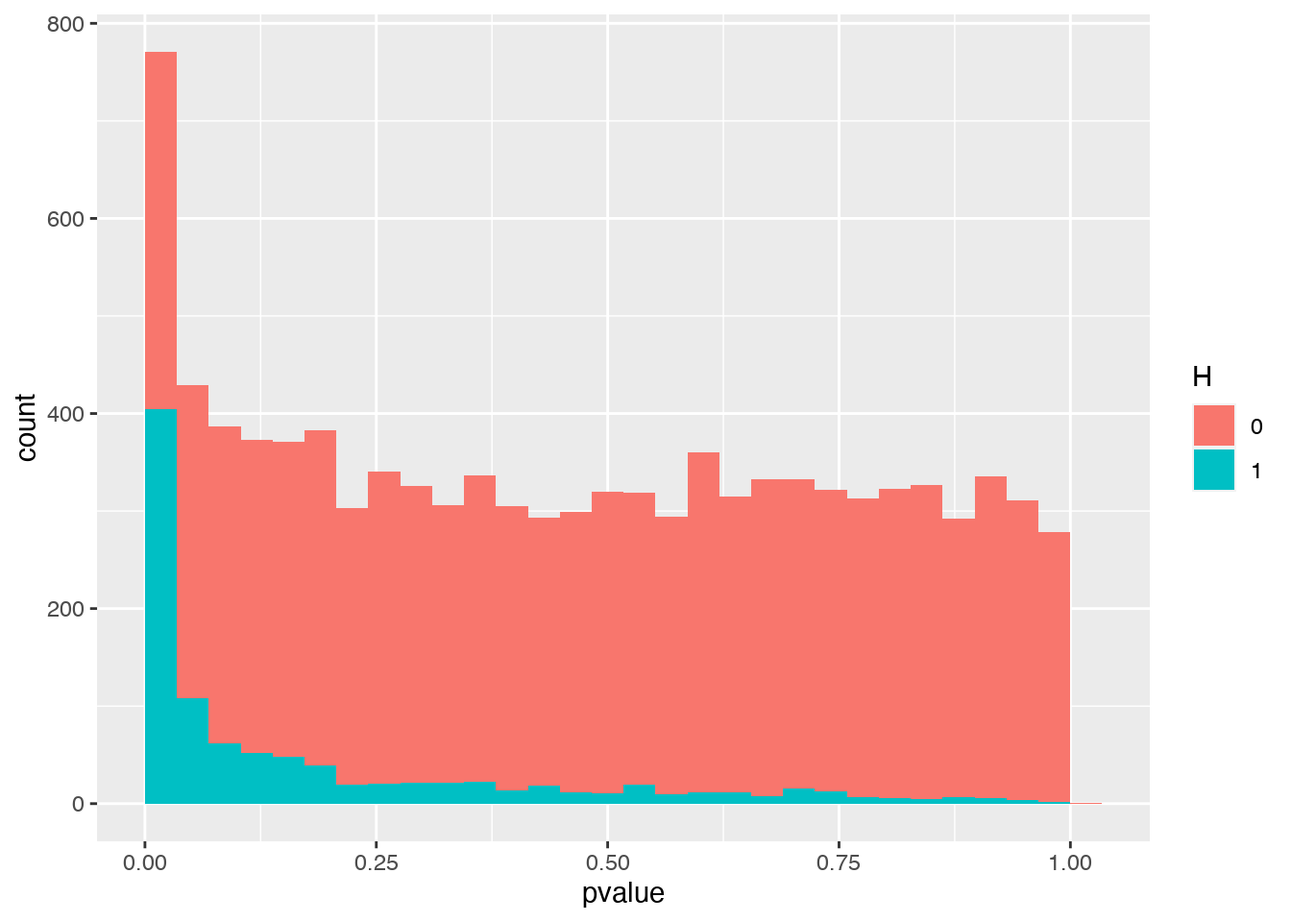
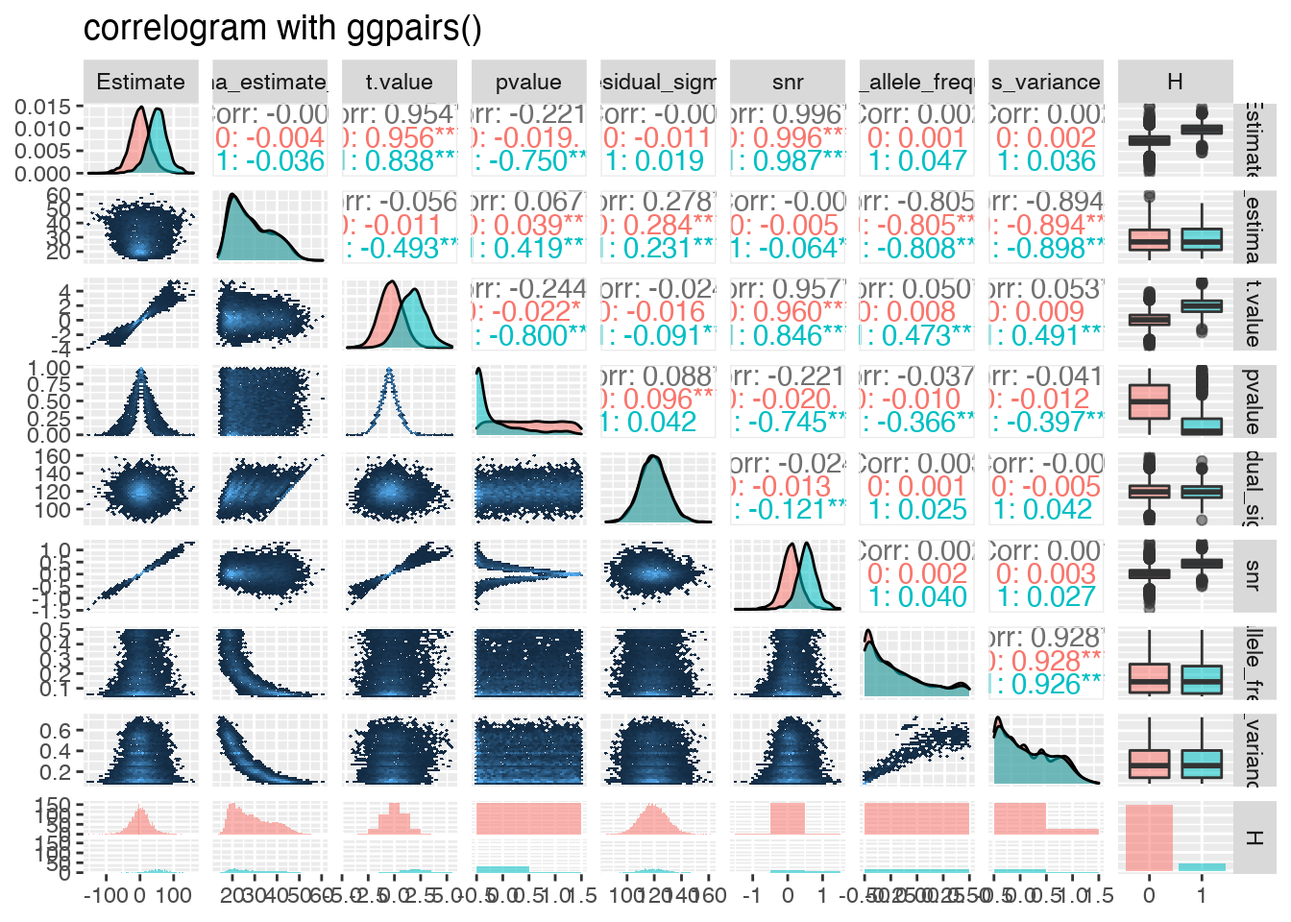
build markdown

diff --git a/hqtl_analysis/maf_simulation.html b/hqtl_analysis/maf_simulation.html
@@ -283,12 +283,12 @@ H_0: (H\beta) =0 \quad \text { against } \quad H_1: (H\beta) \neq 0.
 <span id="cb16-4"><a href="#cb16-4" aria-hidden="true" tabindex="-1"></a><span class="fu">head</span>(data_sim[[<span class="dv">1</span>]])</span></code><button title="Copy to Clipboard" class="code-copy-button"><i class="bi"></i></button></pre></div>
 <div class="cell-output cell-output-stdout">
 <pre><code>  alpha betha sigma nsample_i s      noise histone_modification
-1    50    50   120         1 0   62.98231           112.982315
-2    50    50   120         2 0  145.74102           195.741017
-3    50    50   120         3 0  -41.72961             8.270391
-4    50    50   120         4 1 -222.17585          -172.175850
-5    50    50   120         5 0  -66.44637           -16.446372
-6    50    50   120         6 2 -168.18700          -118.186995</code></pre>
+1    50    50   120         1 0   73.46468           123.464676
+2    50    50   120         2 1  -57.94317            -7.943167
+3    50    50   120         3 0  -44.96355             5.036448
+4    50    50   120         4 0  -17.99695            32.003046
+5    50    50   120         5 0  -39.83976            10.160241
+6    50    50   120         6 0 -101.43186           -51.431864</code></pre>
 </div>
 </div>
 </section>
@@ -317,40 +317,41 @@ t_{\text {score }}=\frac{\widehat{\beta}}{S E_{\widehat{\beta}}},
 \]</span></p>
 <p>where <span class="math inline">\(\widehat{\beta}\)</span> is the least square estimator for <span class="math inline">\(H\beta\)</span> and <span class="math inline">\(S E_{\widehat{\beta}}\)</span> is the associated standard error. We are following the notation from B7.13 in <span class="citation" data-cites="czado2011">(<a href="#ref-czado2011" role="doc-biblioref">Czado and Schmidt 2011</a>)</span>. Under the null and assuming <span class="math inline">\(\epsilon_{1},\ldots , \epsilon_{n} \sim \text { i.i.d. } \mathcal{N}\left(0, \sigma^2\right)\)</span> we have <span class="math inline">\(t_{\text {score }} \sim \mathcal{T}_{n-2}\)</span>.</p>
 <div class="cell">
-<div class="sourceCode cell-code" id="cb20"><pre class="sourceCode r code-with-copy"><code class="sourceCode r"><span id="cb20-1"><a href="#cb20-1" aria-hidden="true" tabindex="-1"></a>sim_res <span class="ot">&lt;-</span> <span class="fu">lapply</span>(data_sim, <span class="cf">function</span>(data_sim_i){</span>
+<div class="sourceCode cell-code" id="cb20"><pre class="sourceCode r code-with-copy"><code class="sourceCode r"><span id="cb20-1"><a href="#cb20-1" aria-hidden="true" tabindex="-1"></a>sim_res <span class="ot">&lt;-</span> purrr<span class="sc">::</span><span class="fu">map_dfr</span>(data_sim, <span class="cf">function</span>(data_sim_i){</span>
 <span id="cb20-2"><a href="#cb20-2" aria-hidden="true" tabindex="-1"></a>  t_test_lm <span class="ot">=</span> <span class="fu">lm</span>(histone_modification <span class="sc">~</span> <span class="dv">1</span> <span class="sc">+</span> s, <span class="at">data=</span>data_sim_i)</span>
 <span id="cb20-3"><a href="#cb20-3" aria-hidden="true" tabindex="-1"></a>  s_line_t_test_lm <span class="ot">=</span> <span class="fu">summary</span>(t_test_lm)<span class="sc">$</span>coefficients[<span class="dv">2</span>,]</span>
 <span id="cb20-4"><a href="#cb20-4" aria-hidden="true" tabindex="-1"></a>  </span>
 <span id="cb20-5"><a href="#cb20-5" aria-hidden="true" tabindex="-1"></a>  s_line_t_test_lm <span class="ot">=</span> <span class="fu">data.frame</span>(<span class="fu">as.list</span>(s_line_t_test_lm))</span>
-<span id="cb20-6"><a href="#cb20-6" aria-hidden="true" tabindex="-1"></a>  </span>
-<span id="cb20-7"><a href="#cb20-7" aria-hidden="true" tabindex="-1"></a>  <span class="co">#calculate minor_allele_frequency</span></span>
-<span id="cb20-8"><a href="#cb20-8" aria-hidden="true" tabindex="-1"></a>  s_line_t_test_lm<span class="sc">$</span>minor_allele_frequency <span class="ot">=</span> <span class="fl">0.5</span><span class="sc">*</span> <span class="fu">min</span>(<span class="fu">mean</span>(data_sim_i<span class="sc">$</span>s), <span class="dv">2</span><span class="sc">-</span> <span class="fu">mean</span>(data_sim_i<span class="sc">$</span>s))</span>
-<span id="cb20-9"><a href="#cb20-9" aria-hidden="true" tabindex="-1"></a>  </span>
-<span id="cb20-10"><a href="#cb20-10" aria-hidden="true" tabindex="-1"></a>  s_line_t_test_lm<span class="sc">$</span>s_variance <span class="ot">&lt;-</span> <span class="fu">var</span>(data_sim_i<span class="sc">$</span>s)</span>
-<span id="cb20-11"><a href="#cb20-11" aria-hidden="true" tabindex="-1"></a>  </span>
-<span id="cb20-12"><a href="#cb20-12" aria-hidden="true" tabindex="-1"></a>  s_line_t_test_lm</span>
-<span id="cb20-13"><a href="#cb20-13" aria-hidden="true" tabindex="-1"></a>})</span>
-<span id="cb20-14"><a href="#cb20-14" aria-hidden="true" tabindex="-1"></a></span>
-<span id="cb20-15"><a href="#cb20-15" aria-hidden="true" tabindex="-1"></a>sim_res <span class="ot">&lt;-</span> <span class="fu">bind_rows</span>(sim_res)</span>
-<span id="cb20-16"><a href="#cb20-16" aria-hidden="true" tabindex="-1"></a><span class="co">#sim_res &lt;- sim_res %&gt;% rename(pvalue = `Pr...t..`)</span></span>
-<span id="cb20-17"><a href="#cb20-17" aria-hidden="true" tabindex="-1"></a><span class="fu">colnames</span>(sim_res)[<span class="dv">4</span>] <span class="ot">&lt;-</span> <span class="st">"pvalue"</span></span>
-<span id="cb20-18"><a href="#cb20-18" aria-hidden="true" tabindex="-1"></a>sim_res<span class="sc">$</span>H <span class="ot">&lt;-</span> <span class="fu">as.factor</span>(H)</span>
-<span id="cb20-19"><a href="#cb20-19" aria-hidden="true" tabindex="-1"></a><span class="fu">head</span>(sim_res)</span></code><button title="Copy to Clipboard" class="code-copy-button"><i class="bi"></i></button></pre></div>
+<span id="cb20-6"><a href="#cb20-6" aria-hidden="true" tabindex="-1"></a>  s_line_t_test_lm <span class="ot">&lt;-</span> s_line_t_test_lm <span class="sc">%&gt;%</span></span>
+<span id="cb20-7"><a href="#cb20-7" aria-hidden="true" tabindex="-1"></a>    <span class="fu">mutate</span>(<span class="at">residual_sigma =</span> <span class="fu">summary</span>(t_test_lm)<span class="sc">$</span>sigma,</span>
+<span id="cb20-8"><a href="#cb20-8" aria-hidden="true" tabindex="-1"></a>           <span class="at">snr =</span> Estimate<span class="sc">/</span>residual_sigma,</span>
+<span id="cb20-9"><a href="#cb20-9" aria-hidden="true" tabindex="-1"></a>           <span class="co">#calculate minor_allele_frequency</span></span>
+<span id="cb20-10"><a href="#cb20-10" aria-hidden="true" tabindex="-1"></a>           <span class="at">minor_allele_frequency =</span> <span class="fl">0.5</span><span class="sc">*</span> <span class="fu">min</span>(<span class="fu">mean</span>(data_sim_i<span class="sc">$</span>s), <span class="dv">2</span><span class="sc">-</span> <span class="fu">mean</span>(data_sim_i<span class="sc">$</span>s)), </span>
+<span id="cb20-11"><a href="#cb20-11" aria-hidden="true" tabindex="-1"></a>           <span class="at">s_variance =</span> <span class="fu">var</span>(data_sim_i<span class="sc">$</span>s))</span>
+<span id="cb20-12"><a href="#cb20-12" aria-hidden="true" tabindex="-1"></a>  </span>
+<span id="cb20-13"><a href="#cb20-13" aria-hidden="true" tabindex="-1"></a>  s_line_t_test_lm</span>
+<span id="cb20-14"><a href="#cb20-14" aria-hidden="true" tabindex="-1"></a>})</span>
+<span id="cb20-15"><a href="#cb20-15" aria-hidden="true" tabindex="-1"></a></span>
+<span id="cb20-16"><a href="#cb20-16" aria-hidden="true" tabindex="-1"></a>sim_res <span class="ot">&lt;-</span> sim_res <span class="sc">%&gt;%</span> <span class="fu">rename</span>(<span class="at">pvalue =</span> <span class="st">`</span><span class="at">Pr...t..</span><span class="st">`</span>)</span>
+<span id="cb20-17"><a href="#cb20-17" aria-hidden="true" tabindex="-1"></a>sim_res <span class="ot">&lt;-</span> sim_res <span class="sc">%&gt;%</span> <span class="fu">rename</span>(<span class="at">betha_estimate_std =</span> <span class="st">`</span><span class="at">Std..Error</span><span class="st">`</span>)</span>
+<span id="cb20-18"><a href="#cb20-18" aria-hidden="true" tabindex="-1"></a></span>
+<span id="cb20-19"><a href="#cb20-19" aria-hidden="true" tabindex="-1"></a>sim_res<span class="sc">$</span>H <span class="ot">&lt;-</span> <span class="fu">as.factor</span>(H)</span>
+<span id="cb20-20"><a href="#cb20-20" aria-hidden="true" tabindex="-1"></a><span class="fu">head</span>(sim_res)</span></code><button title="Copy to Clipboard" class="code-copy-button"><i class="bi"></i></button></pre></div>
 <div class="cell-output cell-output-stdout">
-<pre><code>    Estimate Std..Error    t.value       pvalue minor_allele_frequency
-1   7.732898   21.18206  0.3650682 7.161018e-01             0.29605263
-2  19.180249   32.66823  0.5871223 5.589087e-01             0.07236842
-3 103.557885   24.82211  4.1720017 8.127165e-05             0.19078947
-4  57.402734   29.91119  1.9191057 5.882722e-02             0.07894737
-5   3.243699   19.48881  0.1664391 8.682654e-01             0.25657895
-6  -2.852079   19.38560 -0.1471236 8.834346e-01             0.48026316
-  s_variance H
-1  0.4847368 0
-2  0.2054386 0
-3  0.2924561 1
-4  0.1614035 0
-5  0.3864912 0
-6  0.5450877 0</code></pre>
+<pre><code>    Estimate betha_estimate_std     t.value    pvalue residual_sigma
+1 -31.213736           35.53098 -0.87849359 0.3825195       107.5239
+2  17.370345           43.54139  0.39893870 0.6910873       116.4917
+3 -15.852293           41.99570 -0.37747420 0.7069017       118.2924
+4  23.875922           24.01057  0.99439203 0.3232726       133.4296
+5  23.553564           31.94359  0.73734880 0.4632419       122.4078
+6  -2.201609           39.95219 -0.05510609 0.9562025       135.0186
+          snr minor_allele_frequency s_variance H
+1 -0.29029581             0.05263158  0.1221053 0
+2  0.14911232             0.05263158  0.0954386 0
+3 -0.13400945             0.05921053  0.1057895 0
+4  0.17894019             0.23026316  0.4117544 0
+5  0.19241888             0.06578947  0.1957895 0
+6 -0.01630597             0.09210526  0.1522807 0</code></pre>
 </div>
 </div>
 </section>
@@ -361,52 +362,137 @@ t_{\text {score }}=\frac{\widehat{\beta}}{S E_{\widehat{\beta}}},
 <section id="diagnostic-plots" class="level2">
 <h2 class="anchored" data-anchor-id="diagnostic-plots">Diagnostic plots</h2>
 <div class="cell">
-<div class="sourceCode cell-code" id="cb22"><pre class="sourceCode r code-with-copy"><code class="sourceCode r"><span id="cb22-1"><a href="#cb22-1" aria-hidden="true" tabindex="-1"></a><span class="fu">ggpairs</span>(sim_res, </span>
-<span id="cb22-2"><a href="#cb22-2" aria-hidden="true" tabindex="-1"></a>        <span class="at">mapping=</span>ggplot2<span class="sc">::</span><span class="fu">aes</span>(<span class="at">colour =</span> H, <span class="at">alpha =</span> <span class="fl">0.3</span>),</span>
-<span id="cb22-3"><a href="#cb22-3" aria-hidden="true" tabindex="-1"></a>        <span class="at">columns=</span> <span class="fu">c</span>(<span class="dv">5</span>,<span class="dv">6</span>,<span class="dv">2</span>,<span class="dv">3</span>,<span class="dv">4</span>), </span>
-<span id="cb22-4"><a href="#cb22-4" aria-hidden="true" tabindex="-1"></a>        <span class="at">title=</span><span class="st">"correlogram with ggpairs()"</span>,</span>
-<span id="cb22-5"><a href="#cb22-5" aria-hidden="true" tabindex="-1"></a>        <span class="at">lower=</span><span class="fu">list</span>(<span class="at">combo=</span><span class="fu">wrap</span>(<span class="st">"facethist"</span>, <span class="at">binwidth=</span><span class="dv">1</span>))</span>
-<span id="cb22-6"><a href="#cb22-6" aria-hidden="true" tabindex="-1"></a>      ) </span></code><button title="Copy to Clipboard" class="code-copy-button"><i class="bi"></i></button></pre></div>
+<div class="sourceCode cell-code" id="cb22"><pre class="sourceCode r code-with-copy"><code class="sourceCode r"><span id="cb22-1"><a href="#cb22-1" aria-hidden="true" tabindex="-1"></a><span class="fu">colnames</span>(sim_res)</span></code><button title="Copy to Clipboard" class="code-copy-button"><i class="bi"></i></button></pre></div>
+<div class="cell-output cell-output-stdout">
+<pre><code>[1] "Estimate"               "betha_estimate_std"     "t.value"               
+[4] "pvalue"                 "residual_sigma"         "snr"                   
+[7] "minor_allele_frequency" "s_variance"             "H"                     </code></pre>
 </div>
-</section>
-<section id="pvalue-histograms" class="level2">
-<h2 class="anchored" data-anchor-id="pvalue-histograms">Pvalue histograms</h2>
-<div class="cell">
-<div class="sourceCode cell-code" id="cb23"><pre class="sourceCode r code-with-copy"><code class="sourceCode r"><span id="cb23-1"><a href="#cb23-1" aria-hidden="true" tabindex="-1"></a>groups_by_filter <span class="ot">&lt;-</span> <span class="cf">function</span>(covariate, nbins, <span class="at">ties.method=</span><span class="st">"random"</span>, <span class="at">seed=</span><span class="cn">NULL</span>){</span>
-<span id="cb23-2"><a href="#cb23-2" aria-hidden="true" tabindex="-1"></a>  <span class="cf">if</span> (<span class="sc">!</span><span class="fu">is.null</span>(seed) <span class="sc">&amp;&amp;</span> ties.method<span class="sc">==</span><span class="st">"random"</span>){</span>
-<span id="cb23-3"><a href="#cb23-3" aria-hidden="true" tabindex="-1"></a>    <span class="co">#http://stackoverflow.com/questions/14324096/setting-seed-locally-not-globally-in-r?rq=1</span></span>
-<span id="cb23-4"><a href="#cb23-4" aria-hidden="true" tabindex="-1"></a>    tmp <span class="ot">&lt;-</span> <span class="fu">runif</span>(<span class="dv">1</span>)</span>
-<span id="cb23-5"><a href="#cb23-5" aria-hidden="true" tabindex="-1"></a>    old <span class="ot">&lt;-</span> .Random.seed</span>
-<span id="cb23-6"><a href="#cb23-6" aria-hidden="true" tabindex="-1"></a>    <span class="fu">on.exit</span>( { .Random.seed <span class="ot">&lt;&lt;-</span> old } )</span>
-<span id="cb23-7"><a href="#cb23-7" aria-hidden="true" tabindex="-1"></a>    <span class="fu">set.seed</span>(<span class="fu">as.integer</span>(seed)) </span>
-<span id="cb23-8"><a href="#cb23-8" aria-hidden="true" tabindex="-1"></a>  }</span>
-<span id="cb23-9"><a href="#cb23-9" aria-hidden="true" tabindex="-1"></a>    rfs <span class="ot">&lt;-</span> <span class="fu">rank</span>(covariate, <span class="at">ties.method=</span>ties.method)<span class="sc">/</span><span class="fu">length</span>(covariate)</span>
-<span id="cb23-10"><a href="#cb23-10" aria-hidden="true" tabindex="-1"></a>    <span class="fu">as.factor</span>(<span class="fu">ceiling</span>( rfs<span class="sc">*</span> nbins))</span>
-<span id="cb23-11"><a href="#cb23-11" aria-hidden="true" tabindex="-1"></a>}</span></code><button title="Copy to Clipboard" class="code-copy-button"><i class="bi"></i></button></pre></div>
 </div>
 <div class="cell">
-<div class="sourceCode cell-code" id="cb24"><pre class="sourceCode r code-with-copy"><code class="sourceCode r"><span id="cb24-1"><a href="#cb24-1" aria-hidden="true" tabindex="-1"></a><span class="fu">ggplot</span>(sim_res, </span>
-<span id="cb24-2"><a href="#cb24-2" aria-hidden="true" tabindex="-1"></a>       <span class="fu">aes</span>(<span class="at">x =</span> pvalue,</span>
-<span id="cb24-3"><a href="#cb24-3" aria-hidden="true" tabindex="-1"></a>           <span class="at">fill =</span> H)) <span class="sc">+</span></span>
-<span id="cb24-4"><a href="#cb24-4" aria-hidden="true" tabindex="-1"></a>  <span class="fu">geom_histogram</span>(<span class="at">boundary =</span> <span class="dv">0</span>) </span></code><button title="Copy to Clipboard" class="code-copy-button"><i class="bi"></i></button></pre></div>
-<div class="cell-output cell-output-stderr">
-<pre><code>`stat_bin()` using `bins = 30`. Pick better value with `binwidth`.</code></pre>
+<div class="sourceCode cell-code" id="cb24"><pre class="sourceCode r code-with-copy"><code class="sourceCode r"><span id="cb24-1"><a href="#cb24-1" aria-hidden="true" tabindex="-1"></a>GGscatterhex <span class="ot">&lt;-</span> <span class="cf">function</span>(data, mapping,...) {</span>
+<span id="cb24-2"><a href="#cb24-2" aria-hidden="true" tabindex="-1"></a>  x <span class="ot">&lt;-</span> GGally<span class="sc">::</span><span class="fu">eval_data_col</span>(data, mapping<span class="sc">$</span>x)</span>
+<span id="cb24-3"><a href="#cb24-3" aria-hidden="true" tabindex="-1"></a>  y <span class="ot">&lt;-</span> GGally<span class="sc">::</span><span class="fu">eval_data_col</span>(data, mapping<span class="sc">$</span>y)</span>
+<span id="cb24-4"><a href="#cb24-4" aria-hidden="true" tabindex="-1"></a>  df <span class="ot">&lt;-</span> <span class="fu">data.frame</span>(<span class="at">x =</span> x, <span class="at">y =</span> y)</span>
+<span id="cb24-5"><a href="#cb24-5" aria-hidden="true" tabindex="-1"></a>  pp <span class="ot">&lt;-</span> <span class="fu">ggplot</span>(df, <span class="fu">aes</span>(<span class="at">x=</span>x, <span class="at">y=</span>y)) <span class="sc">+</span></span>
+<span id="cb24-6"><a href="#cb24-6" aria-hidden="true" tabindex="-1"></a>        <span class="fu">geom_hex</span>()</span>
+<span id="cb24-7"><a href="#cb24-7" aria-hidden="true" tabindex="-1"></a>  <span class="fu">return</span>(pp)</span>
+<span id="cb24-8"><a href="#cb24-8" aria-hidden="true" tabindex="-1"></a>  }</span>
+<span id="cb24-9"><a href="#cb24-9" aria-hidden="true" tabindex="-1"></a><span class="co">#ggpairs(flea, columns = 2:3,</span></span>
+<span id="cb24-10"><a href="#cb24-10" aria-hidden="true" tabindex="-1"></a><span class="co">#        lower=list(continuous=wrap(GGscatterhex)))</span></span></code><button title="Copy to Clipboard" class="code-copy-button"><i class="bi"></i></button></pre></div>
 </div>
+<div class="cell">
+<div class="sourceCode cell-code" id="cb25"><pre class="sourceCode r code-with-copy"><code class="sourceCode r"><span id="cb25-1"><a href="#cb25-1" aria-hidden="true" tabindex="-1"></a><span class="fu">ggpairs</span>(sim_res, </span>
+<span id="cb25-2"><a href="#cb25-2" aria-hidden="true" tabindex="-1"></a>        <span class="at">mapping=</span>ggplot2<span class="sc">::</span><span class="fu">aes</span>(<span class="at">colour =</span> H, <span class="at">alpha =</span> <span class="fl">0.3</span>),</span>
+<span id="cb25-3"><a href="#cb25-3" aria-hidden="true" tabindex="-1"></a>        <span class="co">#columns= c(5,6,2,3,4), </span></span>
+<span id="cb25-4"><a href="#cb25-4" aria-hidden="true" tabindex="-1"></a>        <span class="at">title=</span><span class="st">"correlogram with ggpairs()"</span>,</span>
+<span id="cb25-5"><a href="#cb25-5" aria-hidden="true" tabindex="-1"></a>        <span class="at">lower=</span><span class="fu">list</span>(<span class="at">combo=</span><span class="fu">wrap</span>(<span class="st">"facethist"</span>, <span class="at">binwidth=</span><span class="dv">1</span>),</span>
+<span id="cb25-6"><a href="#cb25-6" aria-hidden="true" tabindex="-1"></a>                   <span class="at">continuous=</span><span class="fu">wrap</span>(GGscatterhex))</span>
+<span id="cb25-7"><a href="#cb25-7" aria-hidden="true" tabindex="-1"></a>      ) </span></code><button title="Copy to Clipboard" class="code-copy-button"><i class="bi"></i></button></pre></div>
 <div class="cell-output-display">
 <p><img src="maf_simulation_files/figure-html/unnamed-chunk-15-1.png" class="img-fluid" width="672"></p>
 </div>
 </div>
 <div class="cell">
-<div class="sourceCode cell-code" id="cb26"><pre class="sourceCode r code-with-copy"><code class="sourceCode r"><span id="cb26-1"><a href="#cb26-1" aria-hidden="true" tabindex="-1"></a><span class="fu">ggplot</span>(sim_res, </span>
-<span id="cb26-2"><a href="#cb26-2" aria-hidden="true" tabindex="-1"></a>       <span class="fu">aes</span>(<span class="at">x =</span> pvalue,</span>
-<span id="cb26-3"><a href="#cb26-3" aria-hidden="true" tabindex="-1"></a>           <span class="at">fill =</span> H)) <span class="sc">+</span></span>
-<span id="cb26-4"><a href="#cb26-4" aria-hidden="true" tabindex="-1"></a>  <span class="fu">geom_histogram</span>(<span class="at">boundary =</span> <span class="dv">0</span>) <span class="sc">+</span></span>
-<span id="cb26-5"><a href="#cb26-5" aria-hidden="true" tabindex="-1"></a>  <span class="fu">facet_wrap</span>(<span class="fu">groups_by_filter</span>(sim_res<span class="sc">$</span>minor_allele_frequency, <span class="dv">8</span>), <span class="at">nrow =</span> <span class="dv">2</span>)</span></code><button title="Copy to Clipboard" class="code-copy-button"><i class="bi"></i></button></pre></div>
+<div class="sourceCode cell-code" id="cb26"><pre class="sourceCode r code-with-copy"><code class="sourceCode r"><span id="cb26-1"><a href="#cb26-1" aria-hidden="true" tabindex="-1"></a><span class="fu">ggpairs</span>(sim_res, </span>
+<span id="cb26-2"><a href="#cb26-2" aria-hidden="true" tabindex="-1"></a>        <span class="at">mapping=</span>ggplot2<span class="sc">::</span><span class="fu">aes</span>(<span class="at">colour =</span> H, <span class="at">alpha =</span> <span class="fl">0.3</span>),</span>
+<span id="cb26-3"><a href="#cb26-3" aria-hidden="true" tabindex="-1"></a>        <span class="co">#columns= c(5,6,2,3,4), </span></span>
+<span id="cb26-4"><a href="#cb26-4" aria-hidden="true" tabindex="-1"></a>        <span class="at">title=</span><span class="st">"correlogram with ggpairs()"</span><span class="co">#,</span></span>
+<span id="cb26-5"><a href="#cb26-5" aria-hidden="true" tabindex="-1"></a>        <span class="co">#lower=list(combo=wrap("facethist", binwidth=1),</span></span>
+<span id="cb26-6"><a href="#cb26-6" aria-hidden="true" tabindex="-1"></a>        <span class="co">#           continuous=wrap(GGscatterhex))</span></span>
+<span id="cb26-7"><a href="#cb26-7" aria-hidden="true" tabindex="-1"></a>      ) </span></code><button title="Copy to Clipboard" class="code-copy-button"><i class="bi"></i></button></pre></div>
+<div class="cell-output cell-output-stderr">
+<pre><code>`stat_bin()` using `bins = 30`. Pick better value with `binwidth`.
+`stat_bin()` using `bins = 30`. Pick better value with `binwidth`.
+`stat_bin()` using `bins = 30`. Pick better value with `binwidth`.
+`stat_bin()` using `bins = 30`. Pick better value with `binwidth`.
+`stat_bin()` using `bins = 30`. Pick better value with `binwidth`.
+`stat_bin()` using `bins = 30`. Pick better value with `binwidth`.
+`stat_bin()` using `bins = 30`. Pick better value with `binwidth`.
+`stat_bin()` using `bins = 30`. Pick better value with `binwidth`.</code></pre>
+</div>
+<div class="cell-output-display">
+<p><img src="maf_simulation_files/figure-html/unnamed-chunk-16-1.png" class="img-fluid" width="672"></p>
+</div>
+</div>
+</section>
+<section id="pvalue-histograms" class="level2">
+<h2 class="anchored" data-anchor-id="pvalue-histograms">Pvalue histograms</h2>
+<div class="cell">
+<div class="sourceCode cell-code" id="cb28"><pre class="sourceCode r code-with-copy"><code class="sourceCode r"><span id="cb28-1"><a href="#cb28-1" aria-hidden="true" tabindex="-1"></a>groups_by_filter <span class="ot">&lt;-</span> <span class="cf">function</span>(covariate, nbins, <span class="at">ties.method=</span><span class="st">"random"</span>, <span class="at">seed=</span><span class="cn">NULL</span>){</span>
+<span id="cb28-2"><a href="#cb28-2" aria-hidden="true" tabindex="-1"></a>  <span class="cf">if</span> (<span class="sc">!</span><span class="fu">is.null</span>(seed) <span class="sc">&amp;&amp;</span> ties.method<span class="sc">==</span><span class="st">"random"</span>){</span>
+<span id="cb28-3"><a href="#cb28-3" aria-hidden="true" tabindex="-1"></a>    <span class="co">#http://stackoverflow.com/questions/14324096/setting-seed-locally-not-globally-in-r?rq=1</span></span>
+<span id="cb28-4"><a href="#cb28-4" aria-hidden="true" tabindex="-1"></a>    tmp <span class="ot">&lt;-</span> <span class="fu">runif</span>(<span class="dv">1</span>)</span>
+<span id="cb28-5"><a href="#cb28-5" aria-hidden="true" tabindex="-1"></a>    old <span class="ot">&lt;-</span> .Random.seed</span>
+<span id="cb28-6"><a href="#cb28-6" aria-hidden="true" tabindex="-1"></a>    <span class="fu">on.exit</span>( { .Random.seed <span class="ot">&lt;&lt;-</span> old } )</span>
+<span id="cb28-7"><a href="#cb28-7" aria-hidden="true" tabindex="-1"></a>    <span class="fu">set.seed</span>(<span class="fu">as.integer</span>(seed)) </span>
+<span id="cb28-8"><a href="#cb28-8" aria-hidden="true" tabindex="-1"></a>  }</span>
+<span id="cb28-9"><a href="#cb28-9" aria-hidden="true" tabindex="-1"></a>    rfs <span class="ot">&lt;-</span> <span class="fu">rank</span>(covariate, <span class="at">ties.method=</span>ties.method)<span class="sc">/</span><span class="fu">length</span>(covariate)</span>
+<span id="cb28-10"><a href="#cb28-10" aria-hidden="true" tabindex="-1"></a>    <span class="fu">as.factor</span>(<span class="fu">ceiling</span>( rfs<span class="sc">*</span> nbins))</span>
+<span id="cb28-11"><a href="#cb28-11" aria-hidden="true" tabindex="-1"></a>}</span></code><button title="Copy to Clipboard" class="code-copy-button"><i class="bi"></i></button></pre></div>
+</div>
+<div class="cell">
+<div class="sourceCode cell-code" id="cb29"><pre class="sourceCode r code-with-copy"><code class="sourceCode r"><span id="cb29-1"><a href="#cb29-1" aria-hidden="true" tabindex="-1"></a><span class="fu">ggplot</span>(sim_res, </span>
+<span id="cb29-2"><a href="#cb29-2" aria-hidden="true" tabindex="-1"></a>       <span class="fu">aes</span>(<span class="at">x =</span> pvalue,</span>
+<span id="cb29-3"><a href="#cb29-3" aria-hidden="true" tabindex="-1"></a>           <span class="at">fill =</span> H)) <span class="sc">+</span></span>
+<span id="cb29-4"><a href="#cb29-4" aria-hidden="true" tabindex="-1"></a>  <span class="fu">geom_histogram</span>(<span class="at">boundary =</span> <span class="dv">0</span>) </span></code><button title="Copy to Clipboard" class="code-copy-button"><i class="bi"></i></button></pre></div>
 <div class="cell-output cell-output-stderr">
 <pre><code>`stat_bin()` using `bins = 30`. Pick better value with `binwidth`.</code></pre>
 </div>
 <div class="cell-output-display">
-<p><img src="maf_simulation_files/figure-html/unnamed-chunk-16-1.png" class="img-fluid" width="672"></p>
+<p><img src="maf_simulation_files/figure-html/unnamed-chunk-18-1.png" class="img-fluid" width="672"></p>
+</div>
+</div>
+<div class="cell">
+<div class="sourceCode cell-code" id="cb31"><pre class="sourceCode r code-with-copy"><code class="sourceCode r"><span id="cb31-1"><a href="#cb31-1" aria-hidden="true" tabindex="-1"></a><span class="fu">ggplot</span>(sim_res, </span>
+<span id="cb31-2"><a href="#cb31-2" aria-hidden="true" tabindex="-1"></a>       <span class="fu">aes</span>(<span class="at">x =</span> pvalue,</span>
+<span id="cb31-3"><a href="#cb31-3" aria-hidden="true" tabindex="-1"></a>           <span class="at">fill =</span> H)) <span class="sc">+</span></span>
+<span id="cb31-4"><a href="#cb31-4" aria-hidden="true" tabindex="-1"></a>  <span class="fu">geom_histogram</span>(<span class="at">boundary =</span> <span class="dv">0</span>) <span class="sc">+</span></span>
+<span id="cb31-5"><a href="#cb31-5" aria-hidden="true" tabindex="-1"></a>  <span class="fu">facet_wrap</span>(<span class="fu">groups_by_filter</span>(sim_res<span class="sc">$</span>minor_allele_frequency, <span class="dv">8</span>), <span class="at">nrow =</span> <span class="dv">2</span>)</span></code><button title="Copy to Clipboard" class="code-copy-button"><i class="bi"></i></button></pre></div>
+<div class="cell-output cell-output-stderr">
+<pre><code>`stat_bin()` using `bins = 30`. Pick better value with `binwidth`.</code></pre>
+</div>
+<div class="cell-output-display">
+<p><img src="maf_simulation_files/figure-html/unnamed-chunk-19-1.png" class="img-fluid" width="672"></p>
+</div>
+</div>
+<div class="cell">
+<div class="sourceCode cell-code" id="cb33"><pre class="sourceCode r code-with-copy"><code class="sourceCode r"><span id="cb33-1"><a href="#cb33-1" aria-hidden="true" tabindex="-1"></a><span class="fu">ggplot</span>(sim_res, </span>
+<span id="cb33-2"><a href="#cb33-2" aria-hidden="true" tabindex="-1"></a>       <span class="fu">aes</span>(<span class="at">x =</span> pvalue,</span>
+<span id="cb33-3"><a href="#cb33-3" aria-hidden="true" tabindex="-1"></a>           <span class="at">fill =</span> H)) <span class="sc">+</span></span>
+<span id="cb33-4"><a href="#cb33-4" aria-hidden="true" tabindex="-1"></a>  <span class="fu">geom_histogram</span>(<span class="at">boundary =</span> <span class="dv">0</span>) <span class="sc">+</span></span>
+<span id="cb33-5"><a href="#cb33-5" aria-hidden="true" tabindex="-1"></a>  <span class="fu">facet_wrap</span>(<span class="fu">groups_by_filter</span>(sim_res<span class="sc">$</span>residual_sigma, <span class="dv">8</span>), <span class="at">nrow =</span> <span class="dv">2</span>)</span></code><button title="Copy to Clipboard" class="code-copy-button"><i class="bi"></i></button></pre></div>
+<div class="cell-output cell-output-stderr">
+<pre><code>`stat_bin()` using `bins = 30`. Pick better value with `binwidth`.</code></pre>
+</div>
+<div class="cell-output-display">
+<p><img src="maf_simulation_files/figure-html/unnamed-chunk-20-1.png" class="img-fluid" width="672"></p>
+</div>
+</div>
+<div class="cell">
+<div class="sourceCode cell-code" id="cb35"><pre class="sourceCode r code-with-copy"><code class="sourceCode r"><span id="cb35-1"><a href="#cb35-1" aria-hidden="true" tabindex="-1"></a><span class="fu">ggplot</span>(sim_res, </span>
+<span id="cb35-2"><a href="#cb35-2" aria-hidden="true" tabindex="-1"></a>       <span class="fu">aes</span>(<span class="at">x =</span> pvalue,</span>
+<span id="cb35-3"><a href="#cb35-3" aria-hidden="true" tabindex="-1"></a>           <span class="at">fill =</span> H)) <span class="sc">+</span></span>
+<span id="cb35-4"><a href="#cb35-4" aria-hidden="true" tabindex="-1"></a>  <span class="fu">geom_histogram</span>(<span class="at">boundary =</span> <span class="dv">0</span>) <span class="sc">+</span></span>
+<span id="cb35-5"><a href="#cb35-5" aria-hidden="true" tabindex="-1"></a>  <span class="fu">facet_wrap</span>(<span class="fu">groups_by_filter</span>(sim_res<span class="sc">$</span>s_variance, <span class="dv">8</span>), <span class="at">nrow =</span> <span class="dv">2</span>)</span></code><button title="Copy to Clipboard" class="code-copy-button"><i class="bi"></i></button></pre></div>
+<div class="cell-output cell-output-stderr">
+<pre><code>`stat_bin()` using `bins = 30`. Pick better value with `binwidth`.</code></pre>
+</div>
+<div class="cell-output-display">
+<p><img src="maf_simulation_files/figure-html/unnamed-chunk-21-1.png" class="img-fluid" width="672"></p>
+</div>
+</div>
+<div class="cell">
+<div class="sourceCode cell-code" id="cb37"><pre class="sourceCode r code-with-copy"><code class="sourceCode r"><span id="cb37-1"><a href="#cb37-1" aria-hidden="true" tabindex="-1"></a><span class="fu">ggplot</span>(sim_res, </span>
+<span id="cb37-2"><a href="#cb37-2" aria-hidden="true" tabindex="-1"></a>       <span class="fu">aes</span>(<span class="at">x =</span> pvalue,</span>
+<span id="cb37-3"><a href="#cb37-3" aria-hidden="true" tabindex="-1"></a>           <span class="at">fill =</span> H)) <span class="sc">+</span></span>
+<span id="cb37-4"><a href="#cb37-4" aria-hidden="true" tabindex="-1"></a>  <span class="fu">geom_histogram</span>(<span class="at">boundary =</span> <span class="dv">0</span>) <span class="sc">+</span></span>
+<span id="cb37-5"><a href="#cb37-5" aria-hidden="true" tabindex="-1"></a>  <span class="fu">facet_wrap</span>(<span class="fu">groups_by_filter</span>(sim_res<span class="sc">$</span>betha_estimate_std, <span class="dv">8</span>), <span class="at">nrow =</span> <span class="dv">2</span>)</span></code><button title="Copy to Clipboard" class="code-copy-button"><i class="bi"></i></button></pre></div>
+<div class="cell-output cell-output-stderr">
+<pre><code>`stat_bin()` using `bins = 30`. Pick better value with `binwidth`.</code></pre>
+</div>
+<div class="cell-output-display">
+<p><img src="maf_simulation_files/figure-html/unnamed-chunk-22-1.png" class="img-fluid" width="672"></p>
 </div>
 </div>
 
